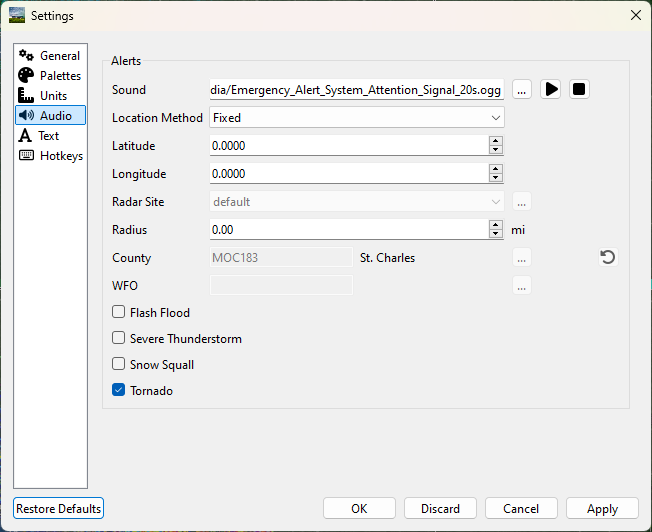
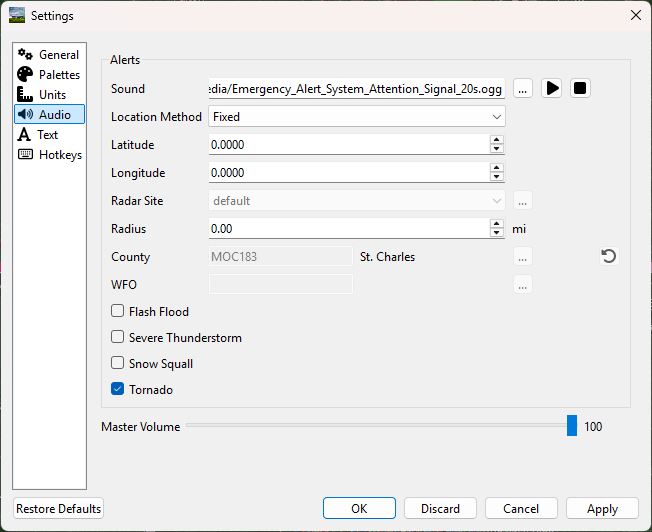
Update for recent changes for v0.5.6 release

diff --git a/conf.py b/conf.py
@@ -7,7 +7,7 @@
 # https://www.sphinx-doc.org/en/master/usage/configuration.html#project-information
 
 project = 'Supercell Wx'
-copyright = '2021-2025, Dan Paulat'
+copyright = '2021-2026, Dan Paulat'
 author = 'Dan Paulat'
 
 # -- General configuration ---------------------------------------------------

diff --git a/getting-started/initial-setup.rst b/getting-started/initial-setup.rst
@@ -148,10 +148,10 @@ right side of the API Key input box to validate your API Key.
 .. note:: Both MapTiler and Mapbox offer free tiers. At the time of writing,
           Mapbox requires a credit card for sign-up, while MapTiler does not.
 
-.. note:: Future releases will add a basic map when no map source is configured.
+.. note:: A blank map is used when no map source is configured.
 
 Next, the Map Layout page displays. Here, the default display of a single map
-can be changed. The Map Layout can be configured as large as a 2x2 grid.
+can be changed. The Map Layout can be configured as large as a 3x3 grid.
 
 .. image:: images/initial-setup-07-wizard-map-layout.png
 
@@ -169,9 +169,9 @@ Using the menu, navigate to the Settings window using **File > Settings**.
 .. image:: images/initial-setup-02-initial-settings-small.png
 
 Additional options can be configured in the Settings dialog as desired. Once
-complete, press **OK** and restart the application.
+complete, press **OK** and verify the map style in the Radar Toolbox.
 
-.. note:: Most settings changes require a restart of the application to take
+.. note:: Some settings changes require a restart of the application to take
           effect. Future releases will improve this behavior.
 
 Now that the application has been configured, it is ready for use.

diff --git a/user-guide/command-line-options.rst b/user-guide/command-line-options.rst
@@ -1,0 +1,31 @@
+====================
+Command Line Options
+====================
+
+Overview
+========
+
+Supercell Wx accepts several command line options that can be used to modify the behavior of the application. These options can be used to enable console output, run the application in portable mode, or specify a custom settings directory. These options can be used either when launching Supercell Wx via the command line, or by adding them to a shortcut or application launcher.
+
+----
+
+.. code-block:: none
+
+   Supercell Wx - Free and open source advanced weather radar
+
+   Usage:
+   supercell-wx [qt options] [options]
+
+   Options:
+   -h [ --help ]             Display this help message
+   -c [ --console ]          Enable console output
+   -p [ --portable ]         Run in portable mode, storing settings in the
+                             application directory
+   --settings-directory path Override the default settings directory with the
+                             specified path
+
+   Qt Options:
+     Qt platform and UI options (e.g., -style, -platform, -geometry)
+     may also be specified. These are consumed by the Qt framework
+     before application argument parsing and are not listed here.
+     See https://doc.qt.io/qt-6/qapplication.html for details.

diff --git a/user-guide/settings.rst b/user-guide/settings.rst
@@ -44,7 +44,7 @@ Grid Width and Height
 ^^^^^^^^^^^^^^^^^^^^^
 These settings allow multiple radar products to be viewed simultaneously.
 Changing  Grid Width will create panes side by side, while Grid Height will
-create panes top and bottom. The maximum value for both is two.
+create panes top and bottom. The maximum value for both is three.
 
 *Layout with a Grid Width of 2 and a Grid Height of 1*
 
@@ -388,6 +388,12 @@ All
 With the **All** location method, alert audio notifications will be played for
 any location.
 
+Master Volume
+^^^^^^^^^^^^^
+
+The master volume slider allows the user to adjust the volume of all alert audio
+notifications.
+
 Text
 ----
 
@@ -399,9 +405,8 @@ to adjust the font and style to the user's liking.
 Choosing the font
 ^^^^^^^^^^^^^^^^^^
 
-The user can select the font they'd like to use by choosing either the default
-display item or the tooltip display item, and then hitting the 3 dots next to
-the font name.
+The user can select a font by choosing the desired display item, and then
+pressing the button with 3 dots next to the font name.
 
 .. image:: images/settings-text-02-select-font.png
 

diff --git a/getting-started/faq.rst b/getting-started/faq.rst
@@ -80,8 +80,9 @@ What is planned for Supercell Wx? I have a suggestion or feature request.
 
 Help! My map is blank even after I added MapTiler.
 ~~~~~~~~~~~~~~~~~~~~~~~~~~~~~~~~~~~~~~~~~~~~~~~~~~
-There may be a blank space before or after your API key. Please verify your API
-key with the mapping service you have selected, or generate a new API key.
+Please verify your API key with the mapping service you have selected, or
+generate a new API key. You may need to toggle the map style if the style has
+reset to None.
 
 How can I contribute?
 ~~~~~~~~~~~~~~~~~~~~~

diff --git a/index.rst b/index.rst
@@ -24,6 +24,7 @@ See the development roadmap for details.
    :caption: User Guide
    :name: sec-user-guide
 
+   user-guide/command-line-options
    user-guide/layer-manager
    user-guide/location-marker-manager
    user-guide/placefile-manager
